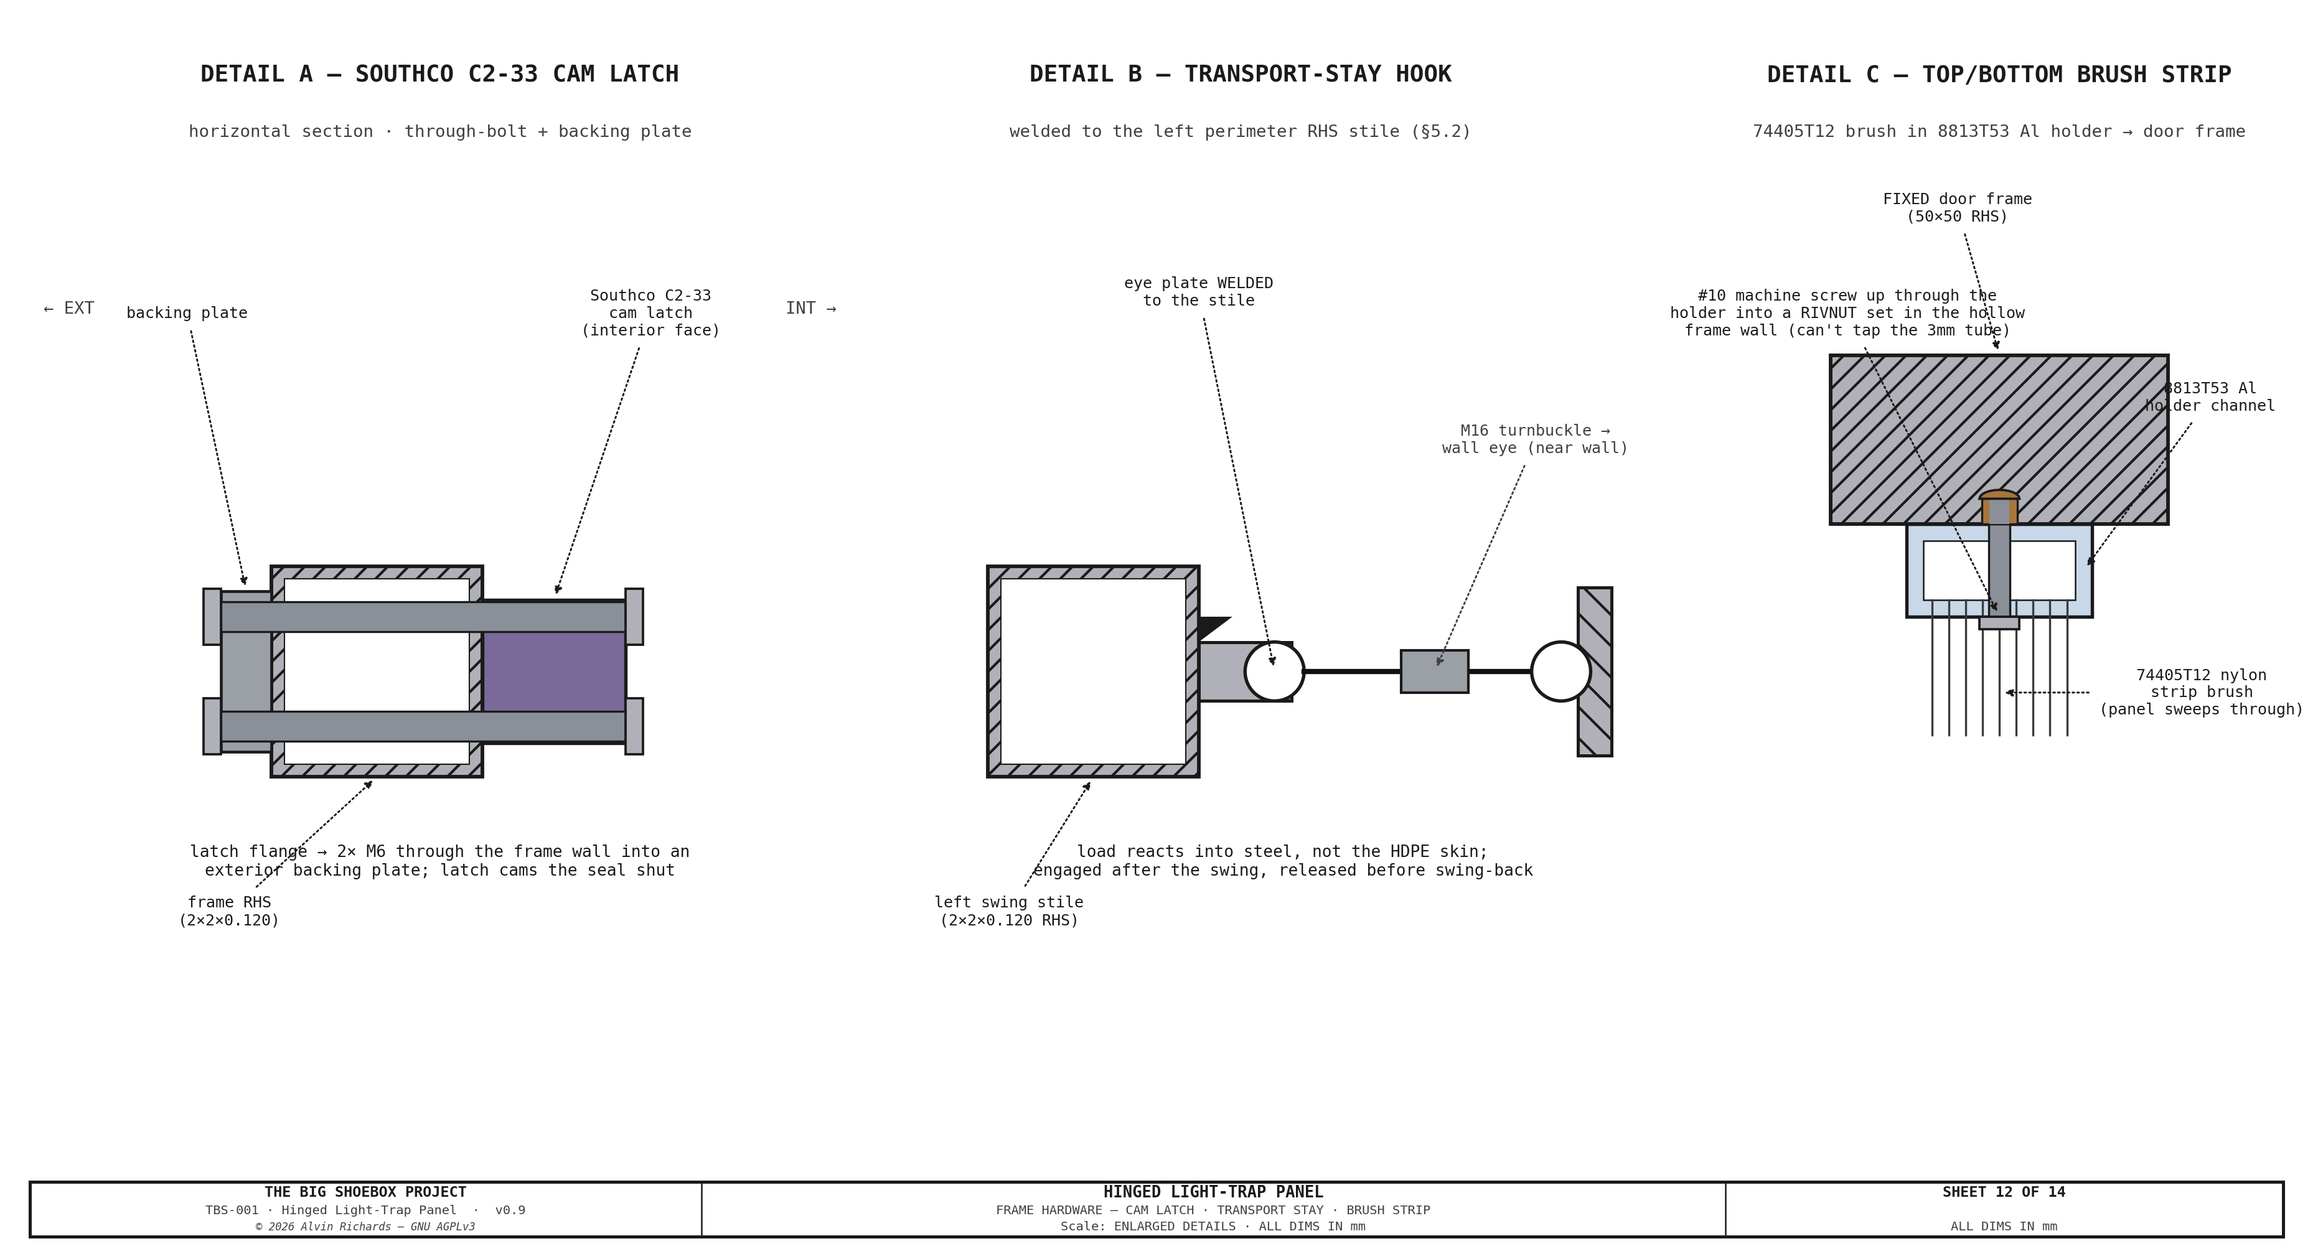
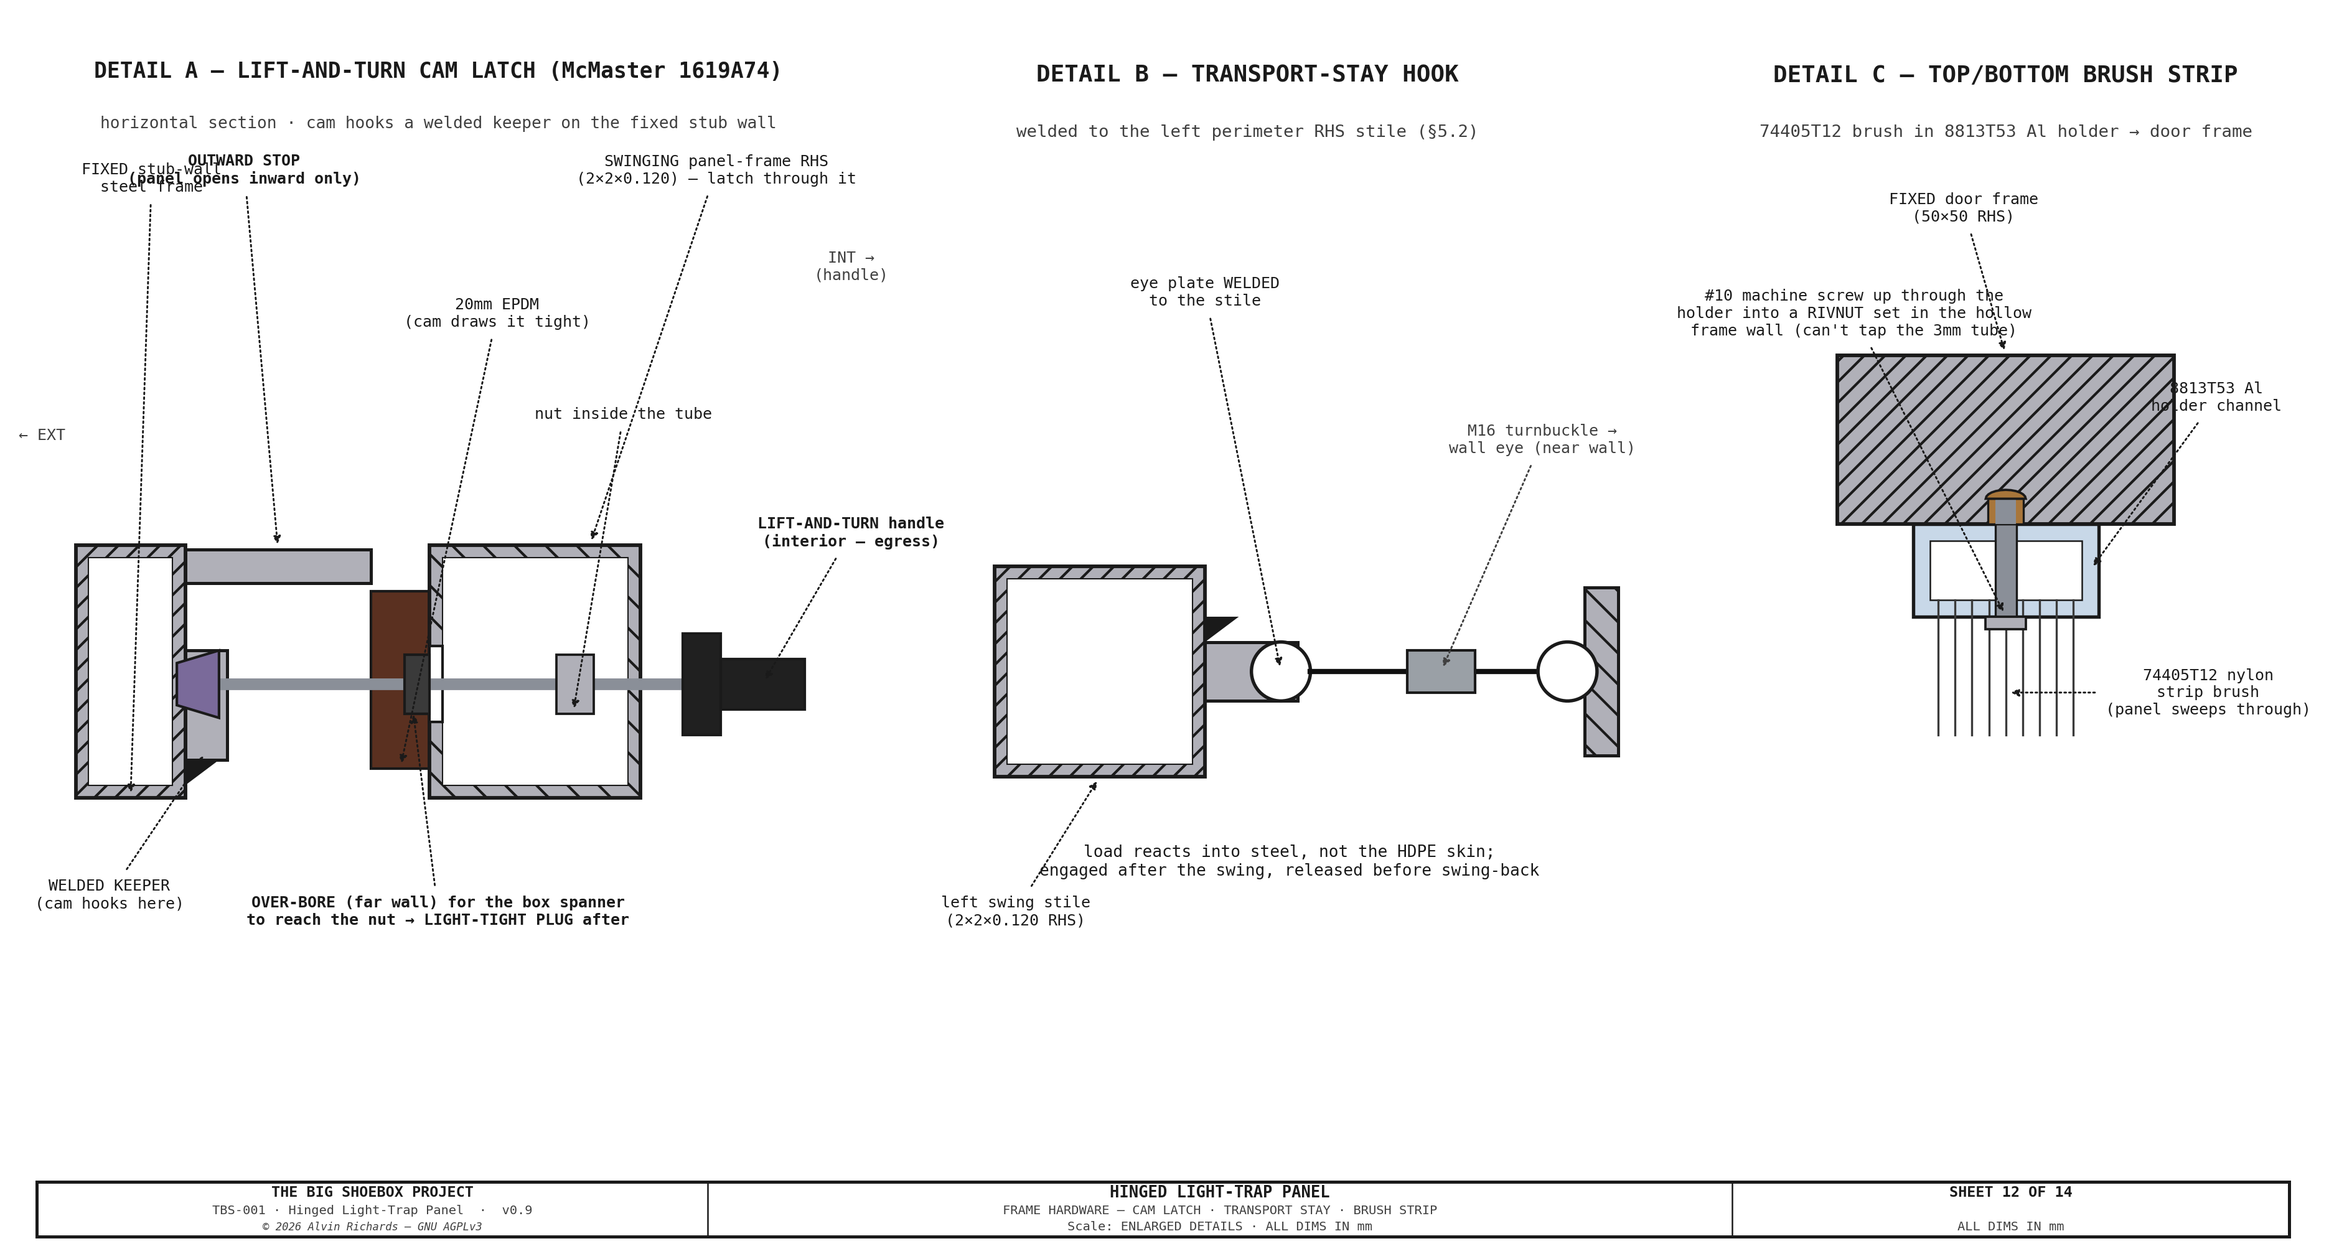
hingepanel: cam latch → 1619A74 lift-and-turn (Sheet 12 Detail A: interior handle → cam → welded stub-wall keeper + over-bore/spanner/plug + outward stop); reconcile panel to OPENS INWARD ONLY (aged-out 180° outward removed: Sheet 1, report §1/§4.2/§9, equipment-layout §9)

diff --git a/src/generators/generate_hingepanel_diagram.py b/src/generators/generate_hingepanel_diagram.py
@@ -264,7 +264,7 @@ def sheet1():
     # engineering convention for features on the far/hidden face.
     # Interior mounting enables emergency egress: if the revolving drum jams,
     # operators inside the container can release the latches and push the panel
-    # open outward without requiring access to the exterior face.
+    # open INWARD (into the container about the pivot), clearing the door plane.
     LATCH_XS = [210, PW - 210]
     LATCH_YS = [220, PH - 220]
     for lx in LATCH_XS:
@@ -298,18 +298,18 @@ def sheet1():
     leader(ax, (JX0 - 20, HZD - HGL / 2), (980, 640),
            "2×2 STEEL JAMB —\nhandle bolts to steel,\nnot the skin (Sheet 6/9)", col=C_OUT, fs=6)
 
-    # ── Outward-opening annotation ────────────────────────────────────────────
-    # Panel hinges on left (X=0); right edge is the free edge.
-    # Opens outward — away from interior camera equipment.
+    # ── Inward-opening annotation ─────────────────────────────────────────────
+    # The panel opens INWARD only (into the container about the Ø89 pivot); a stop on
+    # the fixed frame takes the outward direction — the cam latches hold it shut (Sheet 12).
     leader(ax, (PW, PH * 0.36),
            (PW + 275, PH * 0.25),
-           "OPENS OUTWARD\n(180° SWING —\nCLEAR OF INTERIOR\nEQUIPMENT)",
+           "OPENS INWARD ONLY\n(swings into the container;\na frame stop takes the\noutward direction — Sheet 12)",
            col="#204080", fw="bold")
 
     # ── Emergency egress safety note ──────────────────────────────────────────
     ax.text(PW / 2, -280,
             "SAFETY: Interior-mounted cam latches (×4) allow emergency panel release from inside — "
-            "operate if revolving drum jams. Panel opens outward, clear of all equipment.",
+            "operate if revolving drum jams. Panel opens INWARD about the pivot, clearing the door plane.",
             color="#C04010", fontsize=6.5, ha="center", va="center",
             fontweight="bold", **FONT, zorder=15)
 
@@ -2354,23 +2354,40 @@ def sheet12():
     ax.set_xlim(0, 540)
     ax.set_ylim(-70, 220)
 
-    # ═══ DETAIL A — cam latch (through-bolt + backing) ═══════════════════════
-    Ax = 20
-    ax.text(Ax + 80, 205, "DETAIL A — SOUTHCO C2-33 CAM LATCH", ha="center", fontsize=9, fontweight="bold", color=C_OUT, **FONT)
-    ax.text(Ax + 80, 192, "horizontal section · through-bolt + backing plate", ha="center", fontsize=6.6, color=C_DIM, **FONT)
-    ax.text(Ax - 8, 150, "← EXT", ha="center", fontsize=6.5, color=C_DIM, **FONT)
-    ax.text(Ax + 168, 150, "INT →", ha="center", fontsize=6.5, color=C_DIM, **FONT)
-    # frame RHS (cut) + interior latch body + backing plate
-    ax.add_patch(Rectangle((Ax + 40, 40), 50, 50, fc=C_STEEL, ec=C_OUT, lw=1.4, hatch="///", zorder=4))
-    ax.add_patch(Rectangle((Ax + 43, 43), 44, 44, fc=BG, ec=C_OUT, lw=0.5, zorder=4))
-    leader(ax, (Ax + 65, 40), (Ax + 30, 8), "frame RHS\n(2×2×0.120)", col=C_OUT, fs=6)
-    ax.add_patch(Rectangle((Ax + 90, 48), 34, 34, fc="#7A6A9A", ec=C_OUT, lw=1.3, zorder=5))   # latch body (interior)
-    leader(ax, (Ax + 107, 82), (Ax + 130, 150), "Southco C2-33\ncam latch\n(interior face)", col=C_OUT, fs=6)
-    ax.add_patch(Rectangle((Ax + 28, 46), 12, 38, fc="#9AA0A6", ec=C_OUT, lw=1.1, zorder=5))     # backing plate (exterior)
-    leader(ax, (Ax + 34, 84), (Ax + 20, 150), "backing plate", col=C_OUT, fs=6)
-    for zy in (52, 78):                                                                 # 2 latch flange holes, spaced to the C2-33 body
-        _draw_bolt(ax, Ax + 76, zy, 96, d=7, vertical=False, head=1, end="nut", zb=8)   # M6 through-bolt: head at latch, nut on backing plate
-    ax.text(Ax + 80, 24, "latch flange → 2× M6 through the frame wall into an\nexterior backing plate; latch cams the seal shut", ha="center", va="top", fontsize=6.3, color=C_OUT, **FONT)
+    # ═══ DETAIL A — 1619A74 lift-and-turn cam latch (horizontal section) ══════
+    Ax = 6
+    ax.text(Ax + 92, 206, "DETAIL A — LIFT-AND-TURN CAM LATCH (McMaster 1619A74)", ha="center", fontsize=8.3, fontweight="bold", color=C_OUT, **FONT)
+    ax.text(Ax + 92, 194, "horizontal section · cam hooks a welded keeper on the fixed stub wall", ha="center", fontsize=6.3, color=C_DIM, **FONT)
+    ax.text(Ax - 2, 120, "← EXT", ha="center", fontsize=6.0, color=C_DIM, **FONT)
+    ax.text(Ax + 190, 158, "INT →\n(handle)", ha="center", fontsize=6.0, color=C_DIM, **FONT)
+    # FIXED stub-wall steel frame (left) — keeper + outward stop weld to it
+    ax.add_patch(Rectangle((Ax + 6, 35), 26, 60, fc=C_STEEL, ec=C_OUT, lw=1.4, hatch="///", zorder=4))
+    ax.add_patch(Rectangle((Ax + 9, 38), 20, 54, fc=BG, ec=C_OUT, lw=0.5, zorder=4))
+    leader(ax, (Ax + 19, 35), (Ax + 24, 182), "FIXED stub-wall\nsteel frame", col=C_OUT, fs=6)
+    ax.add_patch(Rectangle((Ax + 32, 86), 44, 8, fc=C_STEEL, ec=C_OUT, lw=1.2, zorder=5))          # outward STOP lip
+    leader(ax, (Ax + 54, 94), (Ax + 46, 184), "OUTWARD STOP\n(panel opens inward only)", col=C_OUT, fw="bold", fs=6)
+    ax.add_patch(Rectangle((Ax + 32, 44), 10, 26, fc=C_STEEL, ec=C_OUT, lw=1.2, zorder=6))          # welded keeper
+    ax.add_patch(Polygon([(Ax + 32, 44), (Ax + 32, 38), (Ax + 40, 44)], closed=True, fc=C_OUT, ec="none", zorder=7))  # weld
+    leader(ax, (Ax + 37, 46), (Ax + 14, 12), "WELDED KEEPER\n(cam hooks here)", col=C_OUT, fs=6)
+    # 20mm EPDM gasket
+    ax.add_patch(Rectangle((Ax + 76, 42), 14, 42, fc=C_GASKT, ec=C_OUT, lw=1.0, zorder=4))
+    leader(ax, (Ax + 83, 42), (Ax + 106, 150), "20mm EPDM\n(cam draws it tight)", col=C_OUT, fs=6)
+    # SWINGING panel-frame RHS — the tube the latch mounts through
+    ax.add_patch(Rectangle((Ax + 90, 35), 50, 60, fc=C_STEEL, ec=C_OUT, lw=1.4, hatch="\\\\", zorder=4))
+    ax.add_patch(Rectangle((Ax + 93, 38), 44, 54, fc=BG, ec=C_OUT, lw=0.5, zorder=4))
+    leader(ax, (Ax + 128, 95), (Ax + 158, 184), "SWINGING panel-frame RHS\n(2×2×0.120) — latch through it", col=C_OUT, fs=6)
+    # latch: barrel through the tube, nut inside, cam to the keeper, handle interior
+    ax.plot([Ax + 40, Ax + 150], [62, 62], color="#8A8F98", lw=4.5, zorder=7)                       # barrel
+    ax.add_patch(Rectangle((Ax + 120, 55), 9, 14, fc=C_STEEL, ec=C_OUT, lw=0.9, zorder=8))          # nut INSIDE the tube
+    leader(ax, (Ax + 124, 55), (Ax + 136, 126), "nut inside the tube", col=C_OUT, fs=6)
+    ax.add_patch(Polygon([(Ax + 40, 54), (Ax + 40, 70), (Ax + 30, 67), (Ax + 30, 57)], closed=True, fc="#7A6A9A", ec=C_OUT, lw=1.0, zorder=8))  # cam behind keeper
+    ax.add_patch(Rectangle((Ax + 150, 50), 9, 24, fc="#202020", ec=C_OUT, lw=1.0, zorder=8))         # handle hub
+    ax.add_patch(Rectangle((Ax + 159, 56), 20, 12, fc="#202020", ec=C_OUT, lw=1.0, zorder=8))        # lift-and-turn lever
+    leader(ax, (Ax + 169, 62), (Ax + 190, 98), "LIFT-AND-TURN handle\n(interior — egress)", col=C_OUT, fw="bold", fs=6)
+    # over-bore + light-tight plug in the FAR (exterior) tube wall, coaxial with the nut
+    ax.add_patch(Rectangle((Ax + 90, 53), 3, 18, fc=BG, ec=C_OUT, lw=1.0, zorder=6))                 # over-bore (larger access hole)
+    ax.add_patch(Rectangle((Ax + 84, 55), 6, 14, fc="#3A3A3A", ec=C_OUT, lw=1.0, zorder=7))          # light-tight plug
+    leader(ax, (Ax + 86, 56), (Ax + 92, 8), "OVER-BORE (far wall) for the box spanner\nto reach the nut → LIGHT-TIGHT PLUG after", col=C_OUT, fw="bold", fs=6)
 
     # ═══ DETAIL B — transport-stay hook (welded to the stile) ════════════════
     Bx = 210

diff --git a/hinged-panel-report.md b/hinged-panel-report.md
@@ -18,7 +18,7 @@ time without opening the panel or breaking the light seal. In case of emergency,
 
 - 100% light exclusion — no straight-line optical path from exterior to interior
 - Single-operator personnel access at any time during exposure
-- 180° outward swing for full-width loading access (IBC totes, equipment)
+- Inward swing (into the container, about the Ø89 pivot) for full-width loading access (IBC totes, equipment) — the panel opens inward only; a frame stop takes the outward direction
 - ~<!-- BEGIN fact:panel_swing_deg -->56<!-- END fact:panel_swing_deg -->° transport swing about the Ø89 pivot post — carries the B2 punch-out bay inboard of the ISO container doors (true min X +<!-- BEGIN fact:swung_door_clearance_mm -->59<!-- END fact:swung_door_clearance_mm -->mm) + hardware
 - Emergency egress operable from inside without tools
 - Weatherproof for outdoor field deployment (IP44 rated seals)
@@ -281,7 +281,7 @@ engineer's sign-off** before fabrication.
 
 | Parameter | Value |
 |-----------|-------|
-| Model | Southco C2-33 cam compression latch |
+| Model | McMaster 1619A74 lift-and-turn cam latch |
 | Quantity | 4 (one at each corner) |
 | Positions | 210mm and 2,152mm from side edges, 220mm and 2,168mm from floor |
 | Mounting face | **Interior** — deliberate safety design for emergency egress |
@@ -289,8 +289,9 @@ engineer's sign-off** before fabrication.
 
 **Emergency egress:** If the revolving drum jams and prevents normal egress, an
 operator inside the container can release all four interior-mounted cam latches
-independently and push the panel open outward. The panel swings 180° clear of all
-interior equipment.
+independently and push the panel open **inward** — it swings into the container about
+the Ø89 pivot, clearing the door plane so the operator can step out. (The panel opens
+**inward only**; a stop on the fixed frame takes the outward direction — §4.2 latches.)
 
 ### 4.3 Interior Pull Handle
 
@@ -397,7 +398,7 @@ Order of operations (single person, ~10 min) — see the [Operating Manual](oper
 3. Lift out the left walkway + door-end near-deck section.
 4. **Strike the two left film rails (TL + BL)** — release each clamp bar, lift the rail
    out of its saddles, and stow.
-5. Release the four Southco cam latches (releases the perimeter + cut seals).
+5. Release the four lift-and-turn cam latches (releases the perimeter + cut seals).
 6. **Swing the frame ~<!-- BEGIN fact:panel_swing_deg -->56<!-- END fact:panel_swing_deg -->° inboard** about the pivot, assisted (balanced about the
    vertical axis — no gravity torque; control momentum at the stop).
 7. Engage the top + bottom wall stays (the transport lock).
@@ -432,7 +433,7 @@ position. Five light ingress paths are sealed:
 
 | # | Light path | Seal method |
 |---|-----------|-------------|
-| 1 | Panel perimeter (left/right) → door frame | 20mm EPDM gasket in an aluminum channel down each **vertical** edge, compressed by the 4 × Southco C2-33 cam latches against the fixed door frame at X=0. (The **top + bottom** edges are strip-brush seals — paths #3/#4 — not compression EPDM.) |
+| 1 | Panel perimeter (left/right) → door frame | 20mm EPDM gasket in an aluminum channel down each **vertical** edge, compressed by the 4 × McMaster 1619A74 lift-and-turn cam latches against the fixed door frame at X=0. (The **top + bottom** edges are strip-brush seals — paths #3/#4 — not compression EPDM.) |
 | 2 | Swing cuts → fixed strips | The swinging center+corners separate from the two FIXED strips (near Yd0–180, far Yd2287–2362, which carries the pivot) along vertical cuts. A 20mm EPDM **cut seal** runs the full panel height down each cut, compressed by the cam latches when the panel is latched at the door plane. Replaces the old sliding-carriage beam/guide-slot brush seals. (Sheet 3, Detail D.) |
 | 3 | Panel bottom → 130mm floor gap | Fixed-frame **bottom brush seal** — a continuous nylon-filament strip brush in an aluminum holder on the threshold, its bristles rising above the panel bottom edge (Z=130) across the **full panel-bottom width, continuous (no notch)** — the housing/drum ride at Z=130 and never reach the floor, so the gap is uniform and the bristle wall closes it light-tight. The panel bottom edge **sweeps through the bristles** as the panel swings — so this edge is a **brush, not a compression seal** (a compression EPDM would drag and deform under the sideways sweep; a brush passes the edge through cleanly — the same principle as the drum-opening brush seals). The bristle density is the seal; no cam-latch compression on this edge. (Sheet 3, Detail B.) |
 | 4 | Panel top → frame gap | Fixed-frame **top brush seal** — the mirror of #3: a nylon-filament strip brush in a holder on the frame top rail, its bristles reaching ~30mm below the panel top edge. The drum stub shaft stops below it, so the brush runs as **one continuous member across the full panel-top width — no notch — meeting across the center**. The panel + drum-box top edge **sweeps through the bristles** as the panel swings — a deliberate ~30mm bristle overlap in the closed position, **not a clash**. No cam-latch compression on this edge; the bristles are the seal. (Sheet 3, Detail C.) |
@@ -569,7 +570,7 @@ seals) for the swinging panel, and the structural anchor for the wall-stay eyes.
 | Annually | Grease the 51118 pivot thrust bearing; the iglide journal bushings run dry — do **not** oil/grease them — wipe the post journal bands clean and check for free, smooth rotation |
 | Annually | Check SKF 6215 bearings for roughness — sealed for life, replace only if failed |
 | Annually | Check the drop-in rail saddles + tapered dowels seat the left film rails square to datum |
-| Annually | Inspect Southco cam latches for compression force; adjust or replace striker |
+| Annually | Inspect the cam latches for clamp force; adjust the latching distance or replace the keeper |
 | Every 2 years | Re-seal drum top/bottom neoprene wiper strips and silicone bead |
 | As needed | Re-apply flat black interior paint where scuffed or worn |
 
@@ -580,7 +581,7 @@ seals) for the swinging panel, and the structural anchor for the wall-stay eyes.
 | Item | Source |
 |------|--------|
 | SKF 6215-2RS1 bearing specification | [SKF Product Catalog](https://www.skf.com/group/products/rolling-bearings/ball-bearings/deep-groove-ball-bearings/productid-6215-2RS1) — radial load 52.7 kN basic dynamic (C), sealed, C3 clearance |
-| Southco C2-33 cam latch | [Southco catalog](https://southco.com/en_us_int/c2-33-11) — flush-mount cam compression latch |
+| Lift-and-turn cam latch | [McMaster 1619A74](https://www.mcmaster.com/1619A74/) — adjustable lift-and-turn tight-hold cam latch, 150 lbf |
 | Turnbuckle + eye/hook (wall stays) | [McMaster-Carr turnbuckles](https://www.mcmaster.com/turnbuckles/) — drop-forged jaw/eye turnbuckles for the transport lock |
 | Pivot thrust bearing (51118) | [Motion — SKF 51118](https://www.motion.com/products/sku/00132858) — single-direction thrust ball bearing, Ø90 × 120 × 22mm, static Cₒ ≈190 kN, for the pivot base |
 | Pivot journal bushings (JFM-9095-100) | [igus — iglide J JFM-9095-100](https://www.igus.com/iglide-ibh/flange-bearings/product-details/iglide-j-m?artnr=JFM-9095-100) — iglide J self-lubricating flange bushing, Ø90 ID × 95 OD × Ø103 flange × 100L, top + bottom post radial location |

diff --git a/equipment-layout-report.md b/equipment-layout-report.md
@@ -261,9 +261,10 @@ balance, max-fill, and top-up analysis, and the full water circuit design.
 
 ## 9. Egress Safety Assessment
 
-When the hinged panel is opened 180° from the inside, the light trap drum (mounted
-in the panel center zone) swings outward with the panel. With the
-waste drums eliminated, the entire left end zone floor is clear.
+When the hinged panel is opened from the inside, it swings **inward** about the Ø89
+pivot and the light trap drum (mounted in the panel center zone) swings into the
+container with it, clearing the door plane. With the waste drums eliminated, the
+entire left end zone floor is clear.
 
 ### 9.1 Egress Gap
 
